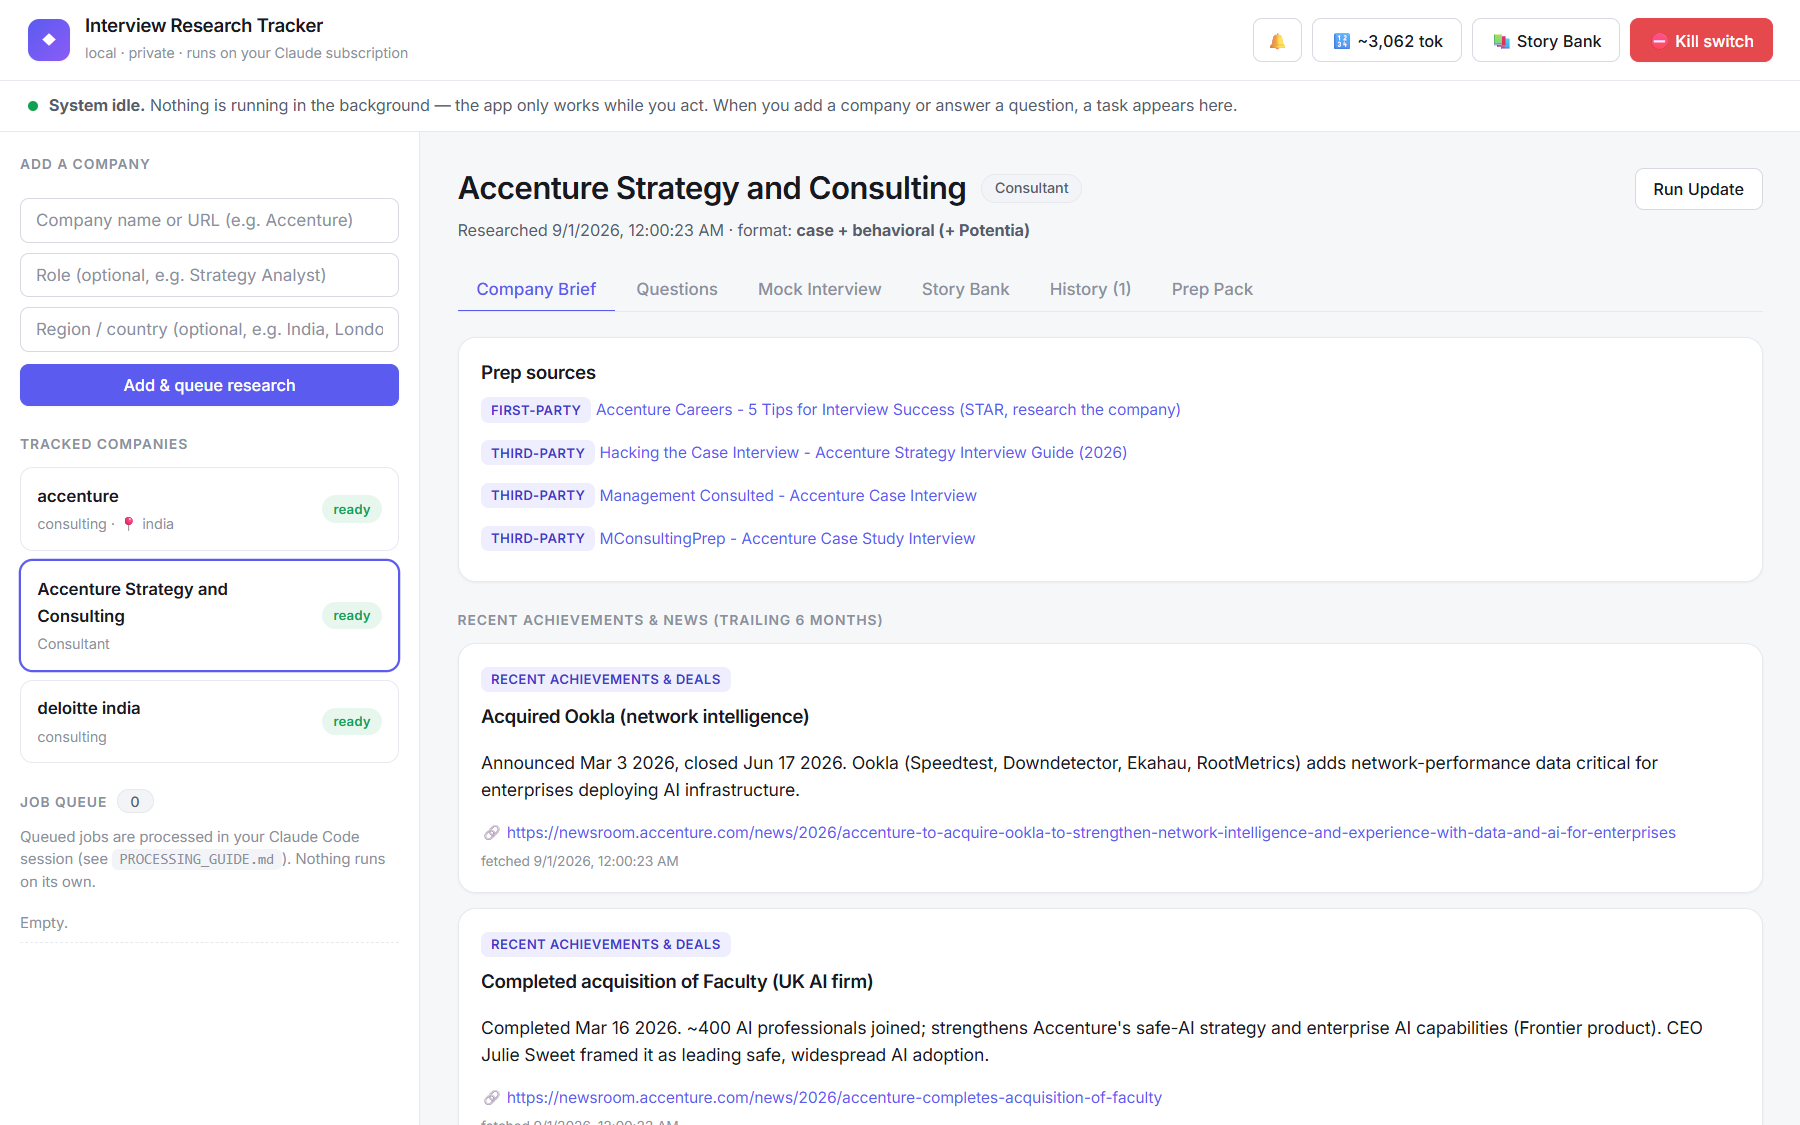
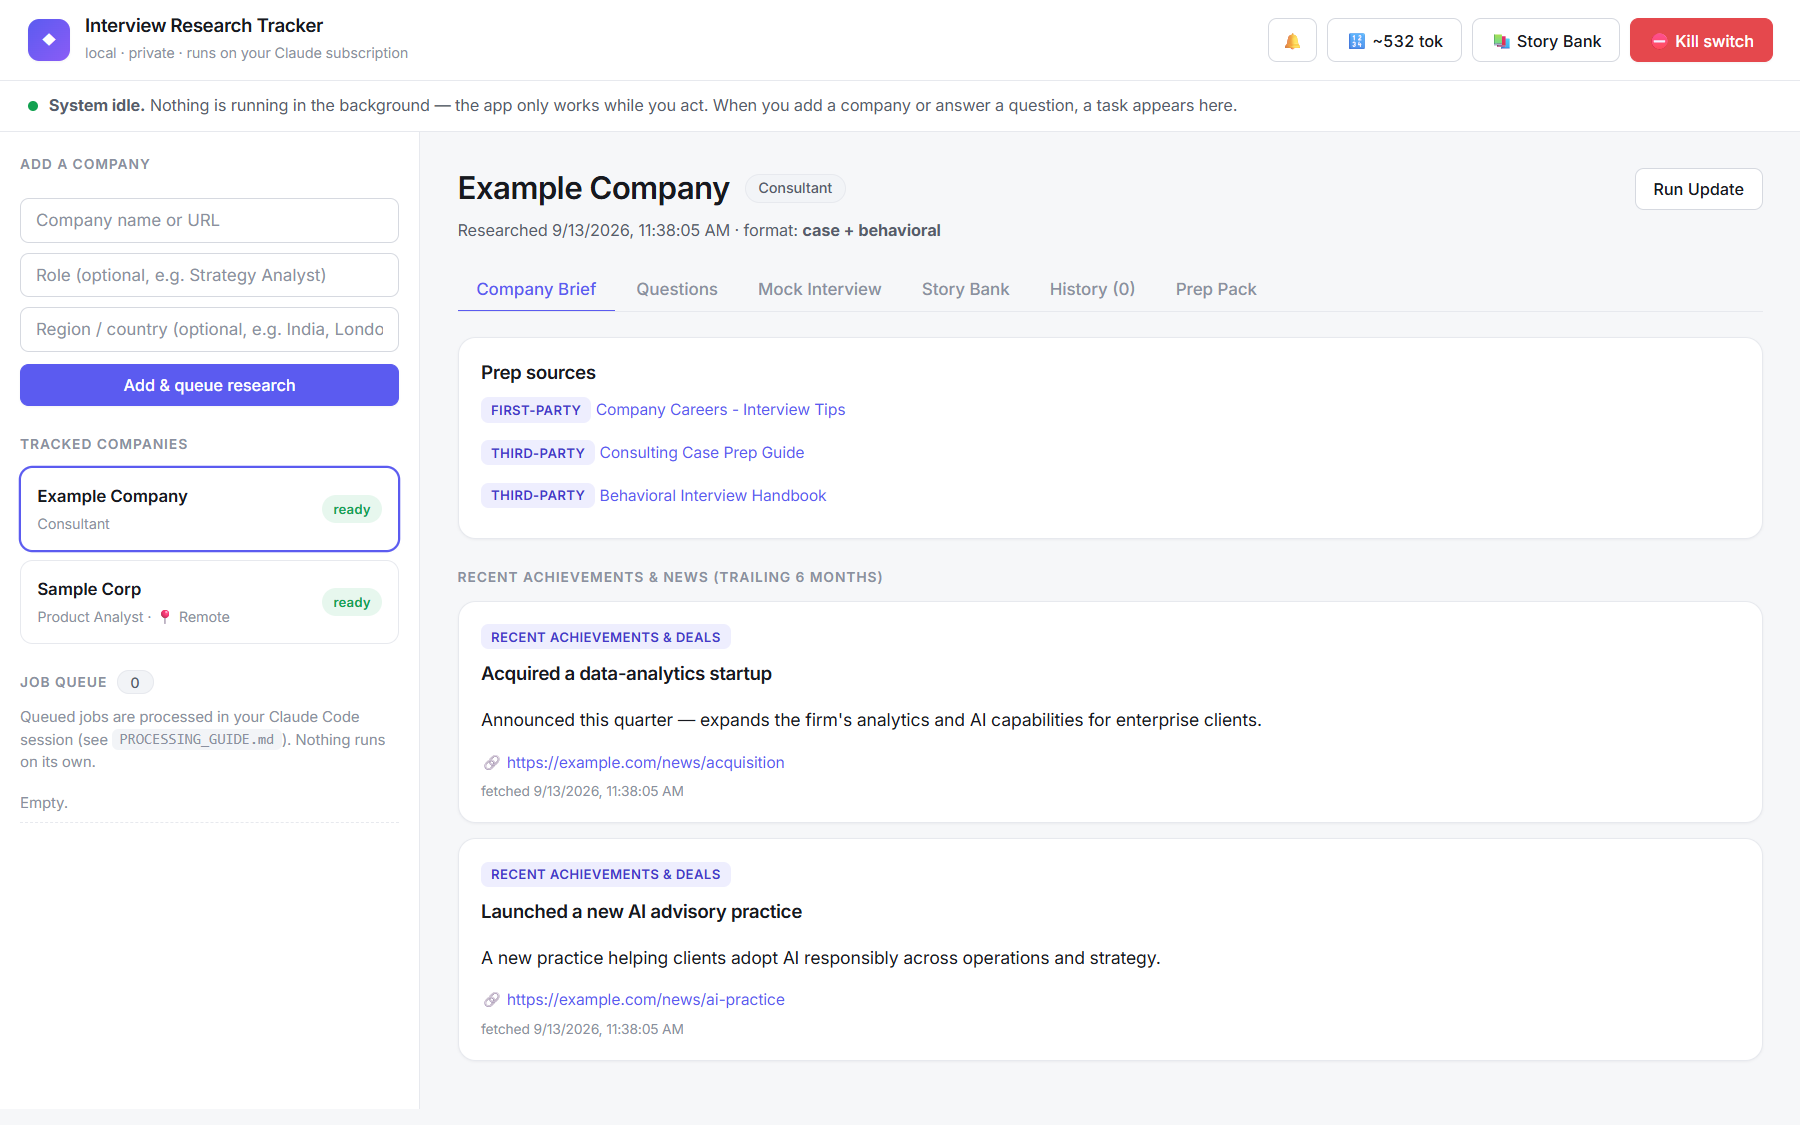
Anonymize dashboard screenshot; brand-neutral name placeholder
- README screenshot now uses sample data (Example Company / Sample Corp,
  example.com sources) — no real company names
- Add-company name placeholder is generic ("Company name or URL")

diff --git a/app/web/index.html b/app/web/index.html
@@ -35,7 +35,7 @@
     <aside id="sidebar">
       <form id="add-form">
         <h2>Add a company</h2>
-        <input id="add-name" type="text" placeholder="Company name or URL (e.g. Accenture)" required />
+        <input id="add-name" type="text" placeholder="Company name or URL" required />
         <input id="add-role" type="text" placeholder="Role (optional, e.g. Strategy Analyst)" />
         <input id="add-region" type="text" placeholder="Region / country (optional, e.g. India, London)" />
         <button type="submit">Add &amp; queue research</button>
